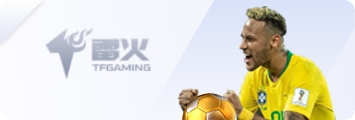
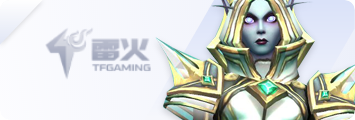
* add game image

diff --git a/lib/environment_config.dart b/lib/environment_config.dart
@@ -52,6 +52,8 @@ class EnvironmentConfig {
 
   static const int theme_text_grey_white_color = 4285558896;
 
+  static const int theme_app_bar_text_color = 4294967295;
+
   static const String default_lang = 'en-US';
 
   static const String assetUrl = 'https://app12.s3.ap-east-1.amazonaws.com/';
@@ -59,6 +61,4 @@ class EnvironmentConfig {
   static const String brandName = 'GPI';
 
   static const int vipPresentType = 1;
-
-  static const int theme_announcement_icon_color = 4291206250;
 }
